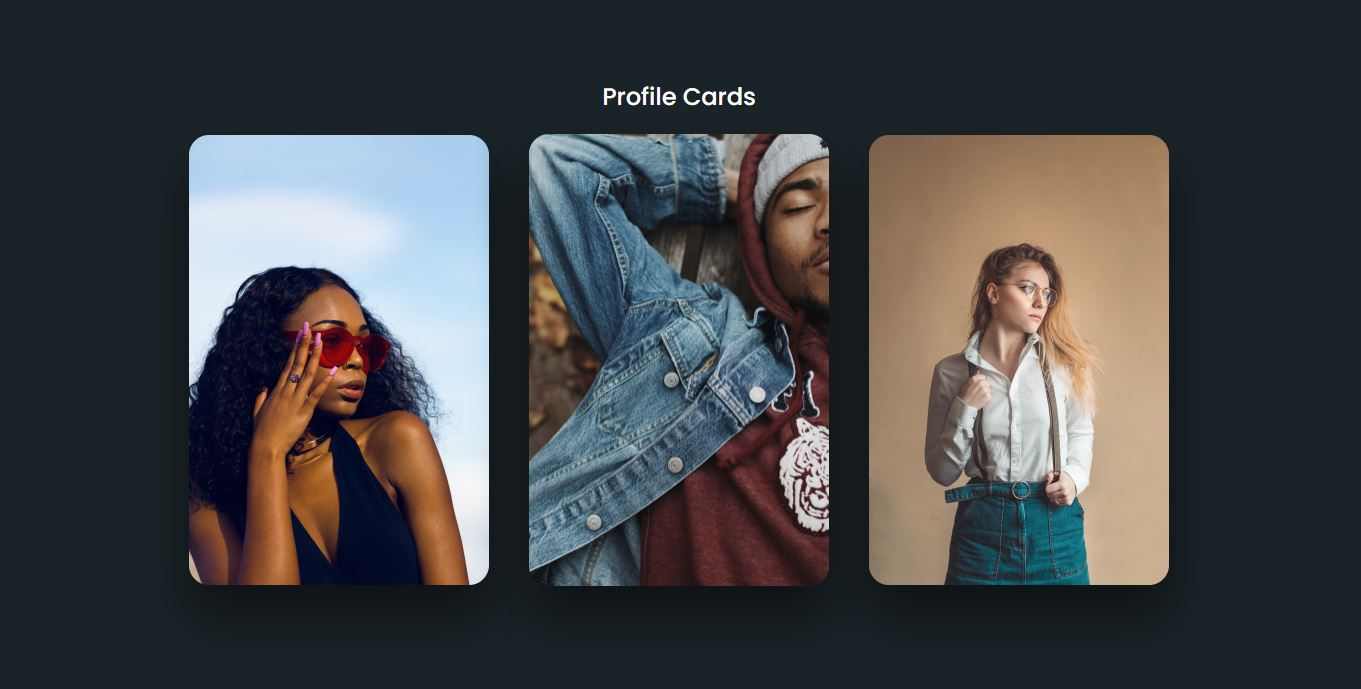
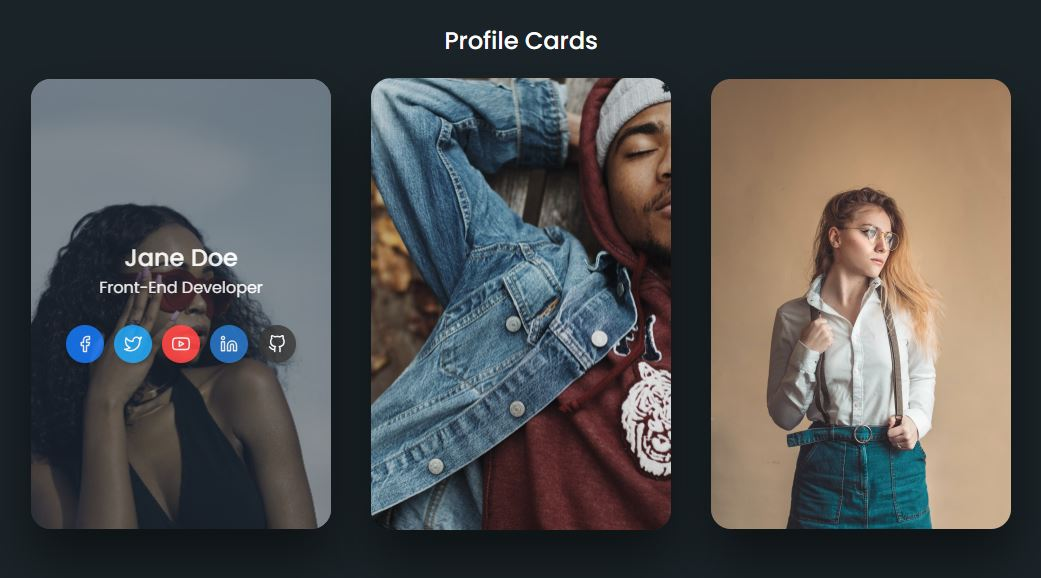
fixed dark-mode

diff --git a/index.html b/index.html
@@ -61,7 +61,7 @@
             <section class="row no-gutters flex-column flex-md-row align-items-center justify-content-center py-5 my-5">
     
                 <div class="col">
-                    <img src="resources/images/me/58919933.jpg" class="img-fluid">
+                    <img src="resources/images/me/58919933.jpg" class="img-fluid rounded-circle img-dark-mode">
                 </div>
     
                 <div class="col">
@@ -69,13 +69,13 @@
                     <h6 class="text-muted mb-4 about-me">I'm a Web Designer & Developer, I pretty much enjoy doing this job and I love discovering new opportunities that will strongly develop my skills and expertise. Let's design & develop things on the internet.</h6>
                     
                     <div class="d-flex justify-content-start">
-                        <a href="https://web.facebook.com/profile.php?id=100004962736826" title="Connect with me at facebook" target="_blank" class="mr-3 rounded-circle p-2 shadow" style="background-color: #38529a; color: #fff; text-decoration: none;">
+                        <a href="https://web.facebook.com/profile.php?id=100004962736826" title="Connect with me at facebook" target="_blank" class="media-icons media-icon-facebook mr-3 rounded-circle p-2 shadow">
                             <i data-feather="facebook"></i>
                         </a>
-                        <a href="https://github.com/RobertPujante" title="Follow me at github" target="_blank" class="bg-dark mr-3 rounded-circle p-2 shadow" style="color: #fff; text-decoration: none;">
+                        <a href="https://github.com/RobertPujante" title="Follow me at github" target="_blank" class="media-icons bg-dark mr-3 rounded-circle p-2 shadow">
                             <i data-feather="github"></i>
                         </a>
-                        <a href="http://www.linkedin.com/in/robert-morales-517a721bb" title="Connect with me at linkedin" target="_blank" class="mr-3 rounded-circle p-2 shadow" style="background-color: #028bc8; color: #fff; text-decoration: none;">
+                        <a href="http://www.linkedin.com/in/robert-morales-517a721bb" title="Connect with me at linkedin" target="_blank" class="media-icons media-icon-linkedin mr-3 rounded-circle p-2 shadow">
                             <i data-feather="linkedin"></i>
                         </a>
                     </div>
@@ -107,30 +107,30 @@
     
                     <div class="card-deck">
                         <div class="card new-card rounded justify-content-between">
-                            <img class="image-fluid w-100 img-fluid-extension" src="resources/images/projects/login-forms.JPG">
+                            <img class="img-fluid w-100 img-fluid-extension" src="resources/images/projects/login-forms.JPG">
                             
                             <div class="card-body text-left">
-                                <h4 class="card-title">Login Form UI Design</h4>
+                                <h4 class="card-title">Login Form UI Designs</h4>
                                 <p class="card-text text-muted">This is a different type of approach in creating a login form, it's actually pretty basic but good for starter/beginners.</p>
                                 <a href="#" class="btn btn-outline-primary">Overview</a>
                             </div>
                         </div>
 
                         <div class="card new-card rounded">
-                            <img class="image-fluid w-100 img-fluid-extension" src="resources/images/projects/music-player-main.jpg">
+                            <img class="img-fluid w-100 img-fluid-extension" src="resources/images/projects/music-player-main.jpg">
                             
                             <div class="card-body text-left">
-                                <h4 class="card-title">Music Player</h4>
+                                <h4 class="card-title">Music Player with Neumorphism Effect</h4>
                                 <p class="card-text text-muted">This is a music player, with static audio files. It has its basic functionalities such as shuffle, loop, next, prev, volume, play, and stop.</p>
                                 <a href="#" class="btn btn-outline-primary">Overview</a>
                             </div>
                         </div>
 
                         <div class="card new-card rounded justify-content-between">
-                            <img class="image-fluid w-100 img-fluid-extension" src="resources/images/projects/profile-cards.JPG">
+                            <img class="img-fluid w-100 img-fluid-extension" src="resources/images/projects/profile-cards.JPG">
                             
                             <div class="card-body text-left">
-                                <h4 class="card-title">Profile Cards UI Design</h4>
+                                <h4 class="card-title">Profile Cards with Hover Effect</h4>
                                 <p class="card-text text-muted">Lorem ipsum dolor sit, amet consectetur adipisicing elit. Explicabo sunt autem magni saepe repellendus fuga culpa quibusdam optio ullam.</p>
                                 <a href="#" class="btn btn-outline-primary">Overview</a>
                             </div>

diff --git a/resources/js/script.js b/resources/js/script.js
@@ -8,31 +8,32 @@ function navSelected(id){
 
     let el = document.getElementById(id);
     el.classList.add('nav-selected');
+    let html = document.querySelectorAll('html')[0].classList.contains('dark-mode');
+    if(html){
+        el.classList.add('dark-mode-revert');
+    }else{
+        el.classList.remove('dark-mode-revert');
+    }
 }
 
 $(() => {
-    function getAge() {
-        var today = new Date();
-        var birthDate = new Date('09/27/1999');
-        var age = today.getFullYear() - birthDate.getFullYear();
-        var m = today.getMonth() - birthDate.getMonth();
-        if (m < 0 || (m === 0 && today.getDate() < birthDate.getDate())) {
-            age = age - 1;
-        }
-
-        $('#my-age').html(age);
-    }
-
-    getAge();
-
     $(document).on('scroll', function () {
         $("#navbar").toggleClass('shadow-sm', $(this).scrollTop() > $("#navbar").height());
-        // $("#navbar").toggleClass('scrolled', $(this).scrollTop() > $nav.height());
 	});
 
     $('#dark-light-mode').on('click', function(){
-        $div = $('html');
-        $div.toggleClass('dark-mode');
+        $('html').toggleClass('dark-mode');
+        $('.media-icons').toggleClass('dark-mode-revert');
+        $('.img-fluid').toggleClass('dark-mode-revert');
+        $('.text-primary').toggleClass('dark-mode-revert');
+        $('.btn-outline-primary').toggleClass('dark-mode-revert');
+
+        if($('html').hasClass('dark-mode')){
+            $('.nav-selected').addClass('dark-mode-revert');
+        }else{
+            $('.nav-selected').removeClass('dark-mode-revert');
+        }
+
         $('.dark-theme').toggleClass('d-none');
         $('.light-theme').toggleClass('d-none');
     });

diff --git a/resources/sass/style.css b/resources/sass/style.css
@@ -45,6 +45,19 @@ body {
   line-height: 25px;
 }
 
+.media-icons {
+  color: #fff;
+  text-decoration: none;
+}
+
+.media-icon-facebook {
+  background-color: #38529a;
+}
+
+.media-icon-linkedin {
+  background-color: #028bc8;
+}
+
 .active {
   color: #007bff !important;
 }
@@ -88,6 +101,11 @@ body {
   width: 100%;
   font-weight: 600;
   font-size: 1em;
+}
+
+.dark-mode-revert {
+  -webkit-filter: invert(100%) !important;
+          filter: invert(100%) !important;
 }
 
 .dark-mode {

diff --git a/resources/sass/style.scss b/resources/sass/style.scss
@@ -55,6 +55,19 @@ body{
     line-height: 25px;
 }
 
+.media-icons{
+    color: #fff;
+    text-decoration: none;
+}
+
+.media-icon-facebook{
+    background-color: #38529a;
+}
+
+.media-icon-linkedin{
+    background-color: #028bc8;
+}
+
 .active{
     color: #007bff !important;
 }
@@ -100,6 +113,10 @@ body{
         font-weight: 600;
         font-size: 1em;
     }
+}
+
+.dark-mode-revert{
+    filter: invert(100%) !important;
 }
 
 .dark-mode{
